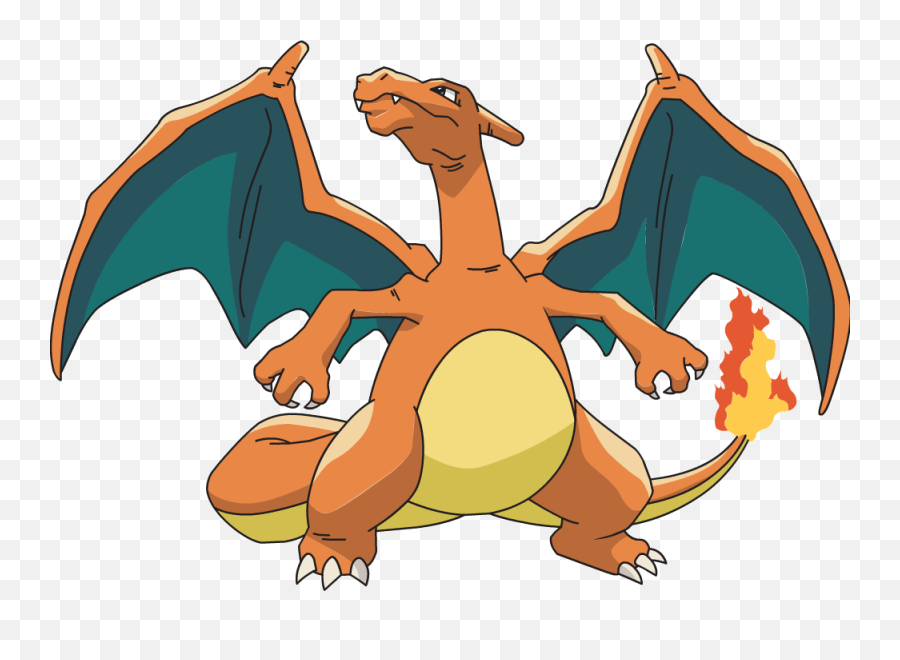
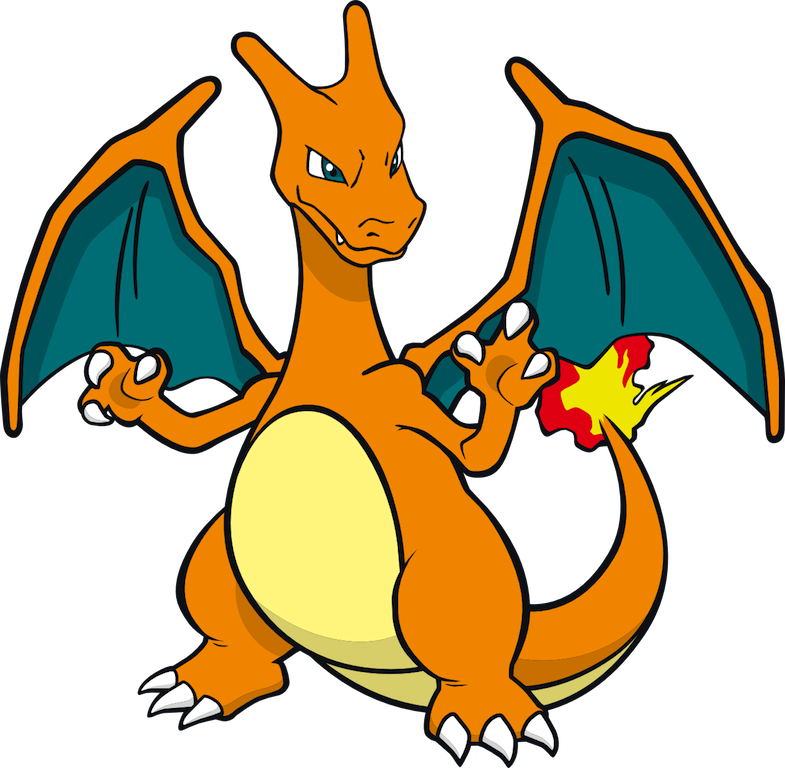
work on adding charizard

diff --git a/src/components/pokemons.js b/src/components/pokemons.js
@@ -29,5 +29,10 @@ export const pokemons = {
       sound: './sounds/charmeleon_call.mp3',
       facts: ['Charmeleons abilities are hidden power and Solar power!', 'Charmeleon can only be obtained by evolving a Charmander!', 'Charmeleon has the Blaze Ability!']
     },
+    charizard: {
+      image: './images/charizard.png',
+      sound: './sounds/charizard_call.mp3',
+      facts: ['Charizard (And One Other) Is The Only Pokémon With Two Mega Evolved Forms!', 'Charizards fire is strong enough to melt boulders!', 'Charizard knows all sorts of Dragon Type moves that have blue fire which is even stronger than its regular fire!']
+    },
 
   };
